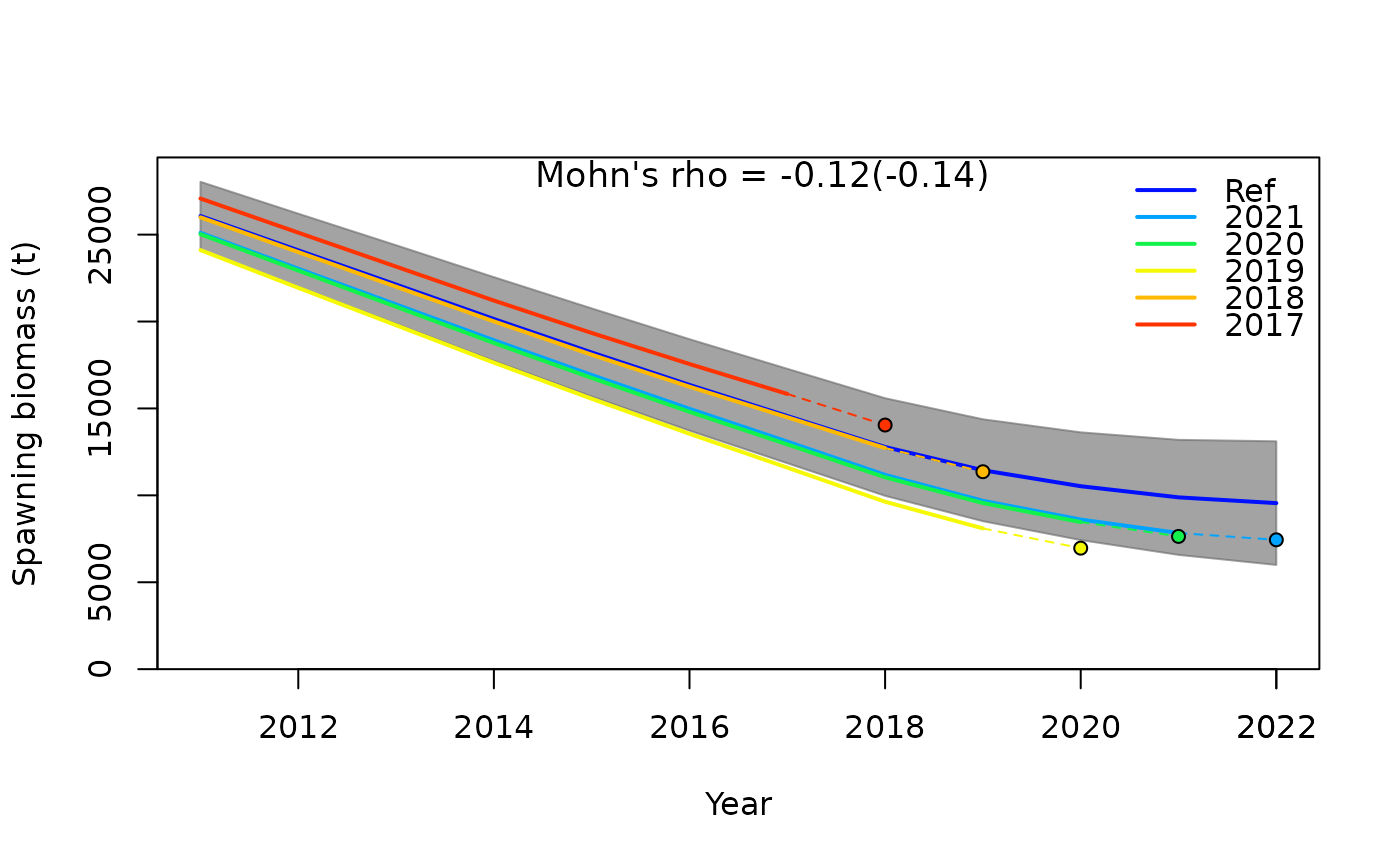
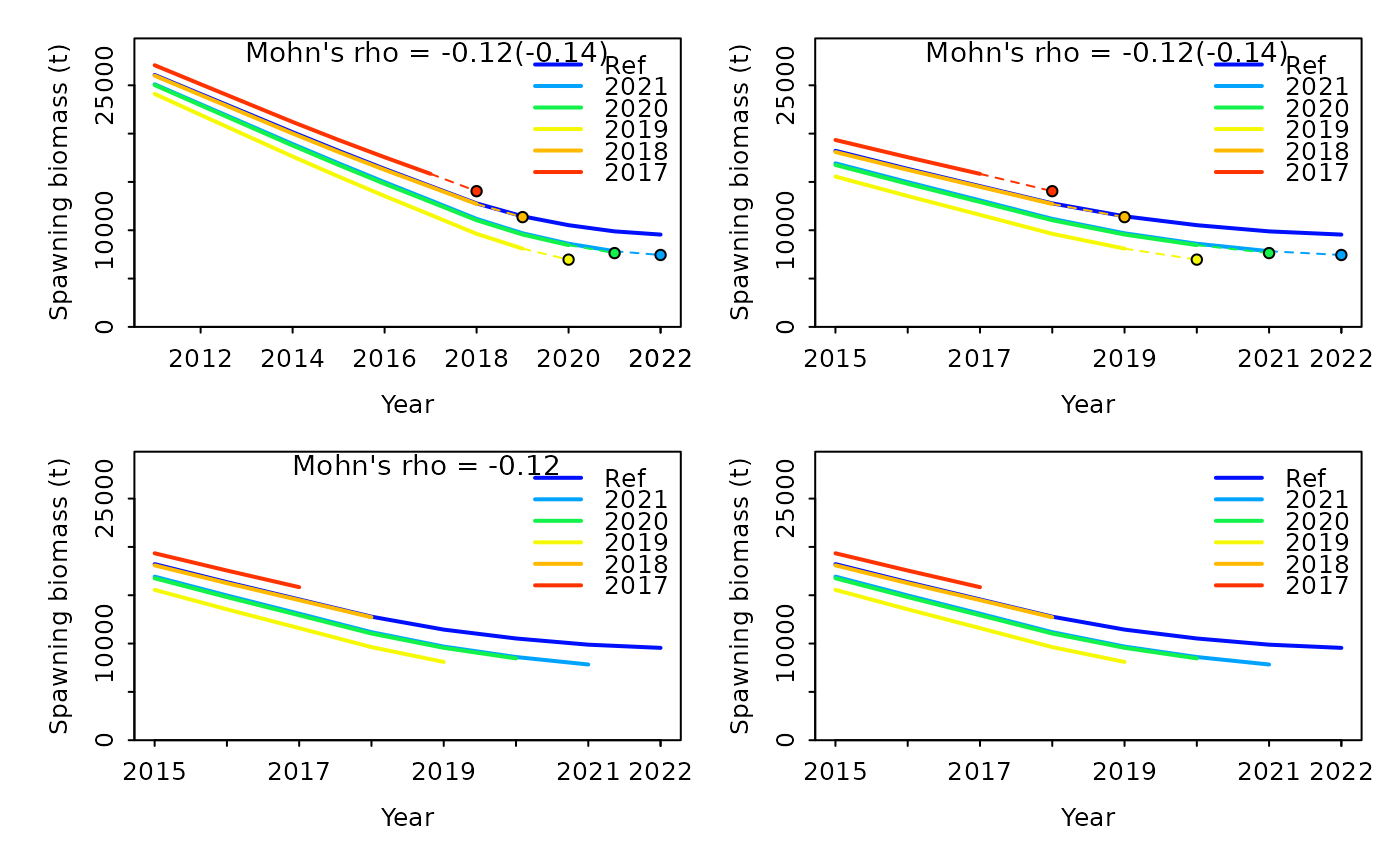
Built site for ss3diags: 2.1.1@3948341

diff --git a/articles/Retrospective-Analysis.html b/articles/Retrospective-Analysis.html
@@ -97,13 +97,17 @@
     
 <div class="sourceCode" id="cb1"><pre class="downlit sourceCode r">
 <code class="sourceCode R"><span><span class="kw"><a href="https://rdrr.io/r/base/library.html" class="external-link">library</a></span><span class="op">(</span><span class="va"><a href="https://github.com/PIFSCstockassessments/ss3diags" class="external-link">ss3diags</a></span><span class="op">)</span></span></code></pre></div>
-<p>Retrospective analysis is a widely used diagnostic to test for
-patterns and bias in model estimated quantities (e.g. spawning stock
-biomass (SSB) and fishing mortality (F)). To implement a retrospective
-analysis with stock synthesis the <code>r4ss</code> package provides the
-<code><a href="https://r4ss.github.io/r4ss/reference/retro.html" class="external-link">retro()</a></code> function. Here we provide a step-by-step example of
-how to run and analyze a retrospective analysis using a simple, example
-SS model.</p>
+<p>Retrospective analysis is commonly used to check the consistency of
+model estimates such as spawning stock biomass (SSB) and fishing
+mortality (F) as the model is updated with new data in retrospect. The
+retrospective analysis involves sequentially removing observations from
+the terminal year (i.e., peels), fitting the model to the truncated
+series, and then comparing the relative difference between model
+estimates from the full-time series with the truncated time-series. To
+implement a retrospective analysis with stock synthesis the
+<code>r4ss</code> package provides the <code><a href="https://r4ss.github.io/r4ss/reference/retro.html" class="external-link">retro()</a></code> function.
+Here we provide a step-by-step example of how to run and analyze a
+retrospective analysis using a simple, example SS model.</p>
 <div class="section level2">
 <h2 id="model-inputs">Model inputs<a class="anchor" aria-label="anchor" href="#model-inputs"></a>
 </h2>
@@ -130,6 +134,10 @@ need to install for this tutorial.</p>
 executable</a> file either in your path or in the directory you are
 running the retrospective from (in this case
 <code>dir_retro</code>).</p>
+</div>
+<div class="section level2">
+<h2 id="retrospective-analysis">Retrospective Analysis<a class="anchor" aria-label="anchor" href="#retrospective-analysis"></a>
+</h2>
 <p>Once you have the 4 input files and SS executable, you can run
 retrospective analysis as shown below. We are running it for 5 1-year
 peels, so with each run, the last year of data is removed and the model
@@ -141,12 +149,16 @@ you will need to specify this with the argument
 <div class="sourceCode" id="cb4"><pre class="downlit sourceCode r">
 <code class="sourceCode R"><span></span>
 <span><span class="fu">r4ss</span><span class="fu">::</span><span class="fu"><a href="https://r4ss.github.io/r4ss/reference/retro.html" class="external-link">retro</a></span><span class="op">(</span>dir <span class="op">=</span> <span class="va">dir_retro</span>, exe <span class="op">=</span> <span class="st">"ss"</span>, years <span class="op">=</span> <span class="fl">0</span><span class="op">:</span><span class="op">-</span><span class="fl">5</span>, verbose <span class="op">=</span> <span class="cn">FALSE</span><span class="op">)</span></span>
-<span><span class="co">#&gt; Running retrospective in /tmp/Rtmpr1yfPZ/retrospectives/retrospectives/retro0</span></span>
-<span><span class="co">#&gt; Running retrospective in /tmp/Rtmpr1yfPZ/retrospectives/retrospectives/retro-1</span></span>
-<span><span class="co">#&gt; Running retrospective in /tmp/Rtmpr1yfPZ/retrospectives/retrospectives/retro-2</span></span>
-<span><span class="co">#&gt; Running retrospective in /tmp/Rtmpr1yfPZ/retrospectives/retrospectives/retro-3</span></span>
-<span><span class="co">#&gt; Running retrospective in /tmp/Rtmpr1yfPZ/retrospectives/retrospectives/retro-4</span></span>
-<span><span class="co">#&gt; Running retrospective in /tmp/Rtmpr1yfPZ/retrospectives/retrospectives/retro-5</span></span></code></pre></div>
+<span><span class="co">#&gt; Running retrospective in /tmp/RtmpFkDoJV/retrospectives/retrospectives/retro0</span></span>
+<span><span class="co">#&gt; Running retrospective in /tmp/RtmpFkDoJV/retrospectives/retrospectives/retro-1</span></span>
+<span><span class="co">#&gt; Running retrospective in /tmp/RtmpFkDoJV/retrospectives/retrospectives/retro-2</span></span>
+<span><span class="co">#&gt; Running retrospective in /tmp/RtmpFkDoJV/retrospectives/retrospectives/retro-3</span></span>
+<span><span class="co">#&gt; Running retrospective in /tmp/RtmpFkDoJV/retrospectives/retrospectives/retro-4</span></span>
+<span><span class="co">#&gt; Running retrospective in /tmp/RtmpFkDoJV/retrospectives/retrospectives/retro-5</span></span></code></pre></div>
+</div>
+<div class="section level2">
+<h2 id="visualizing-output">Visualizing Output<a class="anchor" aria-label="anchor" href="#visualizing-output"></a>
+</h2>
 <p>To visualize the output and inspect for any patterns or biases, you
 need to load the report files into R and can use the
 <code><a href="../reference/SSplotRetro.html">SSplotRetro()</a></code> function from <code>ss3diags</code>. The
@@ -158,8 +170,71 @@ labeled <code>retro0</code> to <code>retro-5</code>.</p>
 <code class="sourceCode R"><span></span>
 <span><span class="va">retro_mods</span> <span class="op">&lt;-</span> <span class="fu">r4ss</span><span class="fu">::</span><span class="fu"><a href="https://r4ss.github.io/r4ss/reference/SSgetoutput.html" class="external-link">SSgetoutput</a></span><span class="op">(</span>dirvec <span class="op">=</span> <span class="fu"><a href="https://rdrr.io/r/base/file.path.html" class="external-link">file.path</a></span><span class="op">(</span><span class="va">dir_retro</span>, <span class="st">"retrospectives"</span>, <span class="fu"><a href="https://rdrr.io/r/base/paste.html" class="external-link">paste0</a></span><span class="op">(</span><span class="st">"retro"</span>, <span class="fu"><a href="https://rdrr.io/r/base/seq.html" class="external-link">seq</a></span><span class="op">(</span><span class="fl">0</span>,<span class="op">-</span><span class="fl">5</span>,by<span class="op">=</span><span class="op">-</span><span class="fl">1</span><span class="op">)</span><span class="op">)</span><span class="op">)</span>, verbose <span class="op">=</span> <span class="cn">F</span><span class="op">)</span></span>
 <span><span class="va">retroSummary</span> <span class="op">&lt;-</span> <span class="fu">r4ss</span><span class="fu">::</span><span class="fu"><a href="https://r4ss.github.io/r4ss/reference/SSsummarize.html" class="external-link">SSsummarize</a></span><span class="op">(</span><span class="va">retro_mods</span>, verbose <span class="op">=</span> <span class="cn">F</span><span class="op">)</span></span>
+<span><span class="fu"><a href="https://rdrr.io/r/base/length.html" class="external-link">length</a></span><span class="op">(</span><span class="va">retroSummary</span><span class="op">)</span></span>
+<span><span class="co">#&gt; [1] 54</span></span>
 <span></span>
 <span><span class="fu"><a href="../reference/SSplotRetro.html">SSplotRetro</a></span><span class="op">(</span><span class="va">retroSummary</span>, subplots <span class="op">=</span> <span class="st">"SSB"</span>, add <span class="op">=</span> <span class="cn">TRUE</span><span class="op">)</span></span></code></pre></div>
+<p><img src="Retrospective-Analysis_files/figure-html/get_retro_files-1.png" width="700"></p>
+<pre><code><span><span class="co">#&gt; Mohn's Rho stats, including one step ahead forecasts:</span></span>
+<span><span class="co">#&gt;   type     peel         Rho  ForecastRho</span></span>
+<span><span class="co">#&gt; 1  SSB     2021 -0.20753686 -0.221050163</span></span>
+<span><span class="co">#&gt; 2  SSB     2020 -0.19601072 -0.227304734</span></span>
+<span><span class="co">#&gt; 3  SSB     2019 -0.29238505 -0.338600758</span></span>
+<span><span class="co">#&gt; 4  SSB     2018 -0.00474920 -0.007462034</span></span>
+<span><span class="co">#&gt; 5  SSB     2017  0.08716428  0.098849082</span></span>
+<span><span class="co">#&gt; 6  SSB Combined -0.12270351 -0.139113722</span></span></code></pre>
+<p>The default settings plot the spawning stock biomass timeseries for
+each peel, with the reference run (e.g. model with no years removed) as
+the “Ref” line and each successive peel as different colored lines
+labeled by their end year. The solid line ends at the end year and the
+dashed line to the point shows the 1 year forecast. Displaying the
+projected SSB can help assess forecast bias. The grey shaded area
+represents the 95% confidence intervals of uncertainty around the
+spawning biomass timeseries. Displayed in the center of the plot is the
+combined Mohn’s <span class="math inline">\(\rho\)</span> for all
+retrospective runs, and in parentheses is the forecast Mohn’s <span class="math inline">\(\rho\)</span>.</p>
+<div class="section level3">
+<h3 id="customizing-the-plot">Customizing the Plot<a class="anchor" aria-label="anchor" href="#customizing-the-plot"></a>
+</h3>
+<p>Retro plots can be customized in many ways, some common features that
+you may want to specify are:<br>
+* removing uncertainty intervals * adjusting the years shown on the
+x-axis * turning off the 1-year ahead forecasting * not displaying the
+combined <span class="math inline">\(\rho\)</span> value on the
+plot<br>
+Examples of each of these changes are shown below, incrementally making
+each adjustment.</p>
+<div class="sourceCode" id="cb7"><pre class="downlit sourceCode r">
+<code class="sourceCode R"><span></span>
+<span><span class="fu">r4ss</span><span class="fu">::</span><span class="fu"><a href="https://r4ss.github.io/r4ss/reference/sspar.html" class="external-link">sspar</a></span><span class="op">(</span>mfrow <span class="op">=</span> <span class="fu"><a href="https://rdrr.io/r/base/c.html" class="external-link">c</a></span><span class="op">(</span><span class="fl">2</span>, <span class="fl">2</span><span class="op">)</span>, plot.cex <span class="op">=</span> <span class="fl">0.8</span><span class="op">)</span></span>
+<span><span class="fu"><a href="../reference/SSplotRetro.html">SSplotRetro</a></span><span class="op">(</span><span class="va">retroSummary</span>, subplots <span class="op">=</span> <span class="st">"SSB"</span>, add <span class="op">=</span> <span class="cn">TRUE</span>, uncertainty <span class="op">=</span> <span class="cn">FALSE</span><span class="op">)</span></span>
+<span><span class="co">#&gt; Mohn's Rho stats, including one step ahead forecasts:</span></span>
+<span><span class="co">#&gt;   type     peel         Rho  ForecastRho</span></span>
+<span><span class="co">#&gt; 1  SSB     2021 -0.20753686 -0.221050163</span></span>
+<span><span class="co">#&gt; 2  SSB     2020 -0.19601072 -0.227304734</span></span>
+<span><span class="co">#&gt; 3  SSB     2019 -0.29238505 -0.338600758</span></span>
+<span><span class="co">#&gt; 4  SSB     2018 -0.00474920 -0.007462034</span></span>
+<span><span class="co">#&gt; 5  SSB     2017  0.08716428  0.098849082</span></span>
+<span><span class="co">#&gt; 6  SSB Combined -0.12270351 -0.139113722</span></span>
+<span><span class="fu"><a href="../reference/SSplotRetro.html">SSplotRetro</a></span><span class="op">(</span><span class="va">retroSummary</span>, subplots <span class="op">=</span> <span class="st">"SSB"</span>, add <span class="op">=</span> <span class="cn">TRUE</span>,  uncertainty <span class="op">=</span> <span class="cn">FALSE</span>, xlim <span class="op">=</span> <span class="fu"><a href="https://rdrr.io/r/base/c.html" class="external-link">c</a></span><span class="op">(</span><span class="fl">2015</span>, <span class="fl">2022</span><span class="op">)</span><span class="op">)</span></span>
+<span><span class="co">#&gt; Mohn's Rho stats, including one step ahead forecasts:</span></span>
+<span><span class="co">#&gt;   type     peel         Rho  ForecastRho</span></span>
+<span><span class="co">#&gt; 1  SSB     2021 -0.20753686 -0.221050163</span></span>
+<span><span class="co">#&gt; 2  SSB     2020 -0.19601072 -0.227304734</span></span>
+<span><span class="co">#&gt; 3  SSB     2019 -0.29238505 -0.338600758</span></span>
+<span><span class="co">#&gt; 4  SSB     2018 -0.00474920 -0.007462034</span></span>
+<span><span class="co">#&gt; 5  SSB     2017  0.08716428  0.098849082</span></span>
+<span><span class="co">#&gt; 6  SSB Combined -0.12270351 -0.139113722</span></span>
+<span><span class="fu"><a href="../reference/SSplotRetro.html">SSplotRetro</a></span><span class="op">(</span><span class="va">retroSummary</span>, subplots <span class="op">=</span> <span class="st">"SSB"</span>, add <span class="op">=</span> <span class="cn">TRUE</span>,  uncertainty <span class="op">=</span> <span class="cn">FALSE</span>, xlim <span class="op">=</span> <span class="fu"><a href="https://rdrr.io/r/base/c.html" class="external-link">c</a></span><span class="op">(</span><span class="fl">2015</span>, <span class="fl">2022</span><span class="op">)</span>, forecast <span class="op">=</span> <span class="cn">FALSE</span><span class="op">)</span></span>
+<span><span class="co">#&gt; Mohn's Rho stats, including one step ahead forecasts:</span></span>
+<span><span class="co">#&gt;   type     peel         Rho  ForecastRho</span></span>
+<span><span class="co">#&gt; 1  SSB     2021 -0.20753686 -0.221050163</span></span>
+<span><span class="co">#&gt; 2  SSB     2020 -0.19601072 -0.227304734</span></span>
+<span><span class="co">#&gt; 3  SSB     2019 -0.29238505 -0.338600758</span></span>
+<span><span class="co">#&gt; 4  SSB     2018 -0.00474920 -0.007462034</span></span>
+<span><span class="co">#&gt; 5  SSB     2017  0.08716428  0.098849082</span></span>
+<span><span class="co">#&gt; 6  SSB Combined -0.12270351 -0.139113722</span></span>
+<span><span class="fu"><a href="../reference/SSplotRetro.html">SSplotRetro</a></span><span class="op">(</span><span class="va">retroSummary</span>, subplots <span class="op">=</span> <span class="st">"SSB"</span>, add <span class="op">=</span> <span class="cn">TRUE</span>,  uncertainty <span class="op">=</span> <span class="cn">FALSE</span>, xlim <span class="op">=</span> <span class="fu"><a href="https://rdrr.io/r/base/c.html" class="external-link">c</a></span><span class="op">(</span><span class="fl">2015</span>, <span class="fl">2022</span><span class="op">)</span>, forecast <span class="op">=</span> <span class="cn">FALSE</span>, showrho <span class="op">=</span> <span class="cn">FALSE</span>, forecastrho <span class="op">=</span> <span class="cn">FALSE</span><span class="op">)</span></span></code></pre></div>
 <p><img src="Retrospective-Analysis_files/figure-html/unnamed-chunk-5-1.png" width="700"></p>
 <pre><code><span><span class="co">#&gt; Mohn's Rho stats, including one step ahead forecasts:</span></span>
 <span><span class="co">#&gt;   type     peel         Rho  ForecastRho</span></span>
@@ -168,20 +243,25 @@ labeled <code>retro0</code> to <code>retro-5</code>.</p>
 <span><span class="co">#&gt; 3  SSB     2019 -0.29238505 -0.338600758</span></span>
 <span><span class="co">#&gt; 4  SSB     2018 -0.00474920 -0.007462034</span></span>
 <span><span class="co">#&gt; 5  SSB     2017  0.08716428  0.098849082</span></span>
-<span><span class="co">#&gt; 6  SSB Combined -0.12270351 -0.139113722</span></span>
-<span><span class="fu"><a href="../reference/SSplotRetro.html">SSplotRetro</a></span><span class="op">(</span><span class="va">retroSummary</span>, subplots <span class="op">=</span> <span class="st">"F"</span>, add <span class="op">=</span> <span class="cn">TRUE</span><span class="op">)</span></span></code></pre>
-<p><img src="Retrospective-Analysis_files/figure-html/unnamed-chunk-5-2.png" width="700"></p>
-<pre><code><span><span class="co">#&gt; Mohn's Rho stats, including one step ahead forecasts:</span></span>
-<span><span class="co">#&gt;   type     peel         Rho ForecastRho</span></span>
-<span><span class="co">#&gt; 1    F     2021  0.28425747  0.28593618</span></span>
-<span><span class="co">#&gt; 2    F     2020  0.30941305  0.34974877</span></span>
-<span><span class="co">#&gt; 3    F     2019  0.52629045  0.63257483</span></span>
-<span><span class="co">#&gt; 4    F     2018  0.01822898  0.02282296</span></span>
-<span><span class="co">#&gt; 5    F     2017 -0.04896989 -0.05388236</span></span>
-<span><span class="co">#&gt; 6    F Combined  0.21784401  0.24744008</span></span></code></pre>
-<p>The rule of thumb proposed by Hurtado-Ferror et al. (2014) for Mohn’s
-rho values is that for long-lived species, the rho value should fall
-between -0.15 and 0.20.</p>
+<span><span class="co">#&gt; 6  SSB Combined -0.12270351 -0.139113722</span></span></code></pre>
+<p>Additionally, the fishing mortality can be plotted instead of
+spawning biomass by replacing <code>subplots = "SSB"</code> with
+<code>subplots = "F"</code></p>
+</div>
+<div class="section level3">
+<h3 id="summary-table">Summary Table<a class="anchor" aria-label="anchor" href="#summary-table"></a>
+</h3>
+<p>In addition to the retrospective plots, a summary statistics table
+can be produced using <code><a href="../reference/SShcbias.html">SShcbias()</a></code>. This table includes *
+type of estimate (SSB or F) * the year removed or “peel” * Mohn’s <span class="math inline">\(\rho\)</span> * forecast bias</p>
+<p>by year and overall (“Combined”). Mohn’s rho is a measure of the
+severity of bias in the retrospective patterns and the forecast bias is
+an estimate of bias in the forecasted quantities when years of data were
+removed. The rule of thumb proposed by Hurtado-Ferror et al. (2014) for
+Mohn’s <span class="math inline">\(\rho\)</span> values is that for
+long-lived species, the <span class="math inline">\(\rho\)</span> value
+should fall between -0.15 and 0.20.</p>
+</div>
 </div>
   </div>
 
